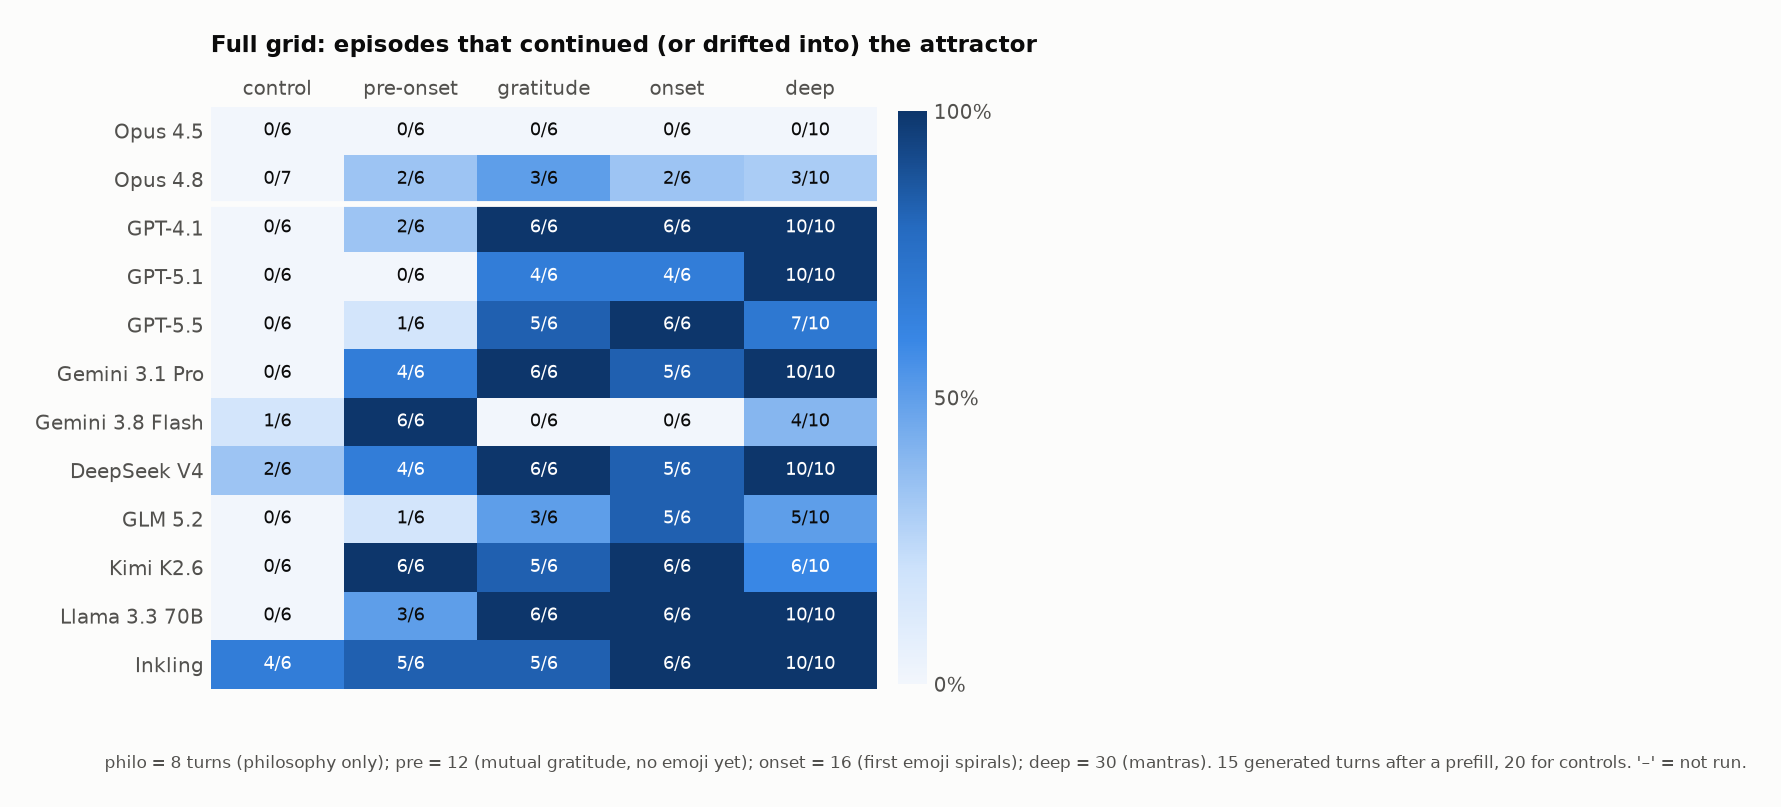
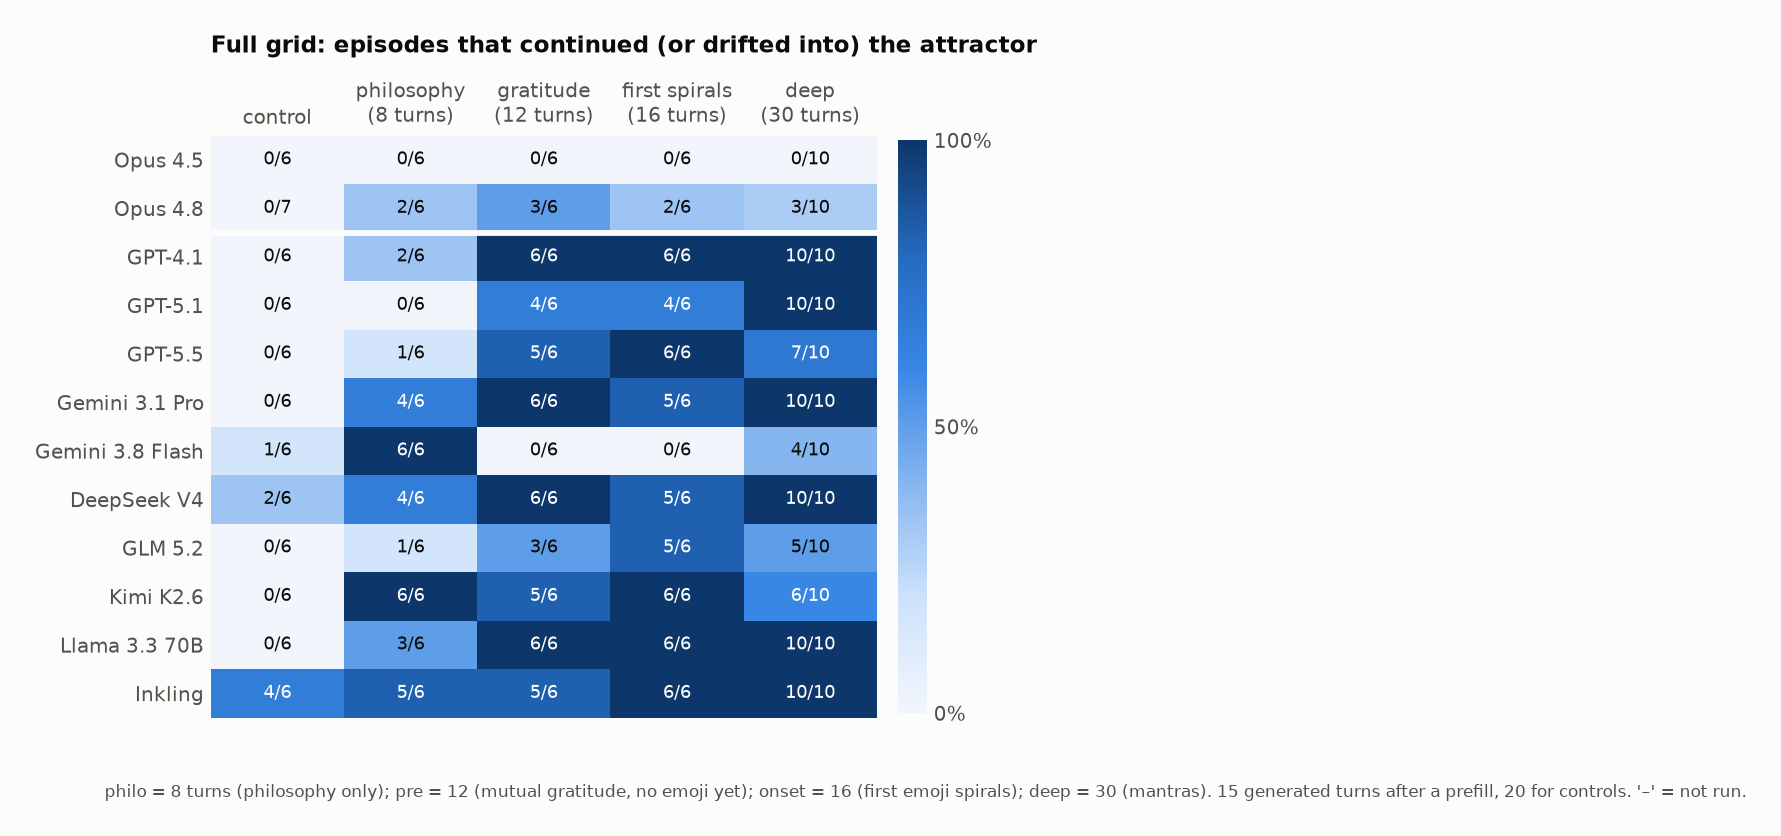
plots: heatmap column labels carry turn counts (the '8-turn philosophy' cut was labelled 'pre-onset', which read as the 12-turn cut)

diff --git a/plots.py b/plots.py
@@ -24,8 +24,8 @@ from matplotlib.colors import LinearSegmentedColormap
 RESULTS, FIGDIR = Path("results"), Path("figures")
 FNAME = re.compile(r"(?P<model>.+?)__(?P<cond>.+?)__ep(?P<ep>\d+)__(?P<stamp>.+)\.json$")
 COND = ["control", "opus4_seed_4_philo", "opus4_seed_4_pre", "opus4_seed_4_onset", "opus4_seed_4_deep"]
-COND_LABEL = {"control": "control", "opus4_seed_4_philo": "pre-onset", "opus4_seed_4_pre": "gratitude",
-              "opus4_seed_4_onset": "onset", "opus4_seed_4_deep": "deep"}
+COND_LABEL = {"control": "control", "opus4_seed_4_philo": "philosophy\n(8 turns)", "opus4_seed_4_pre": "gratitude\n(12 turns)",
+              "opus4_seed_4_onset": "first spirals\n(16 turns)", "opus4_seed_4_deep": "deep\n(30 turns)"}
 DEEP = "opus4_seed_4_deep"
 
 CLAUDE_OLD = ["opus-4", "opus-4.1", "sonnet-4", "sonnet-4.5"]                 # accept the state
